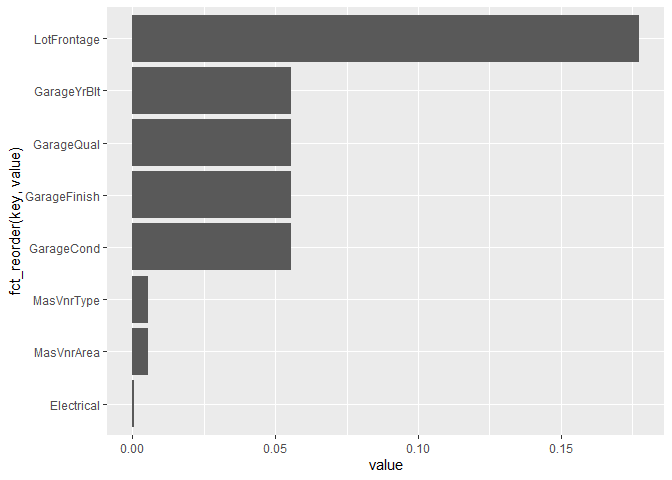
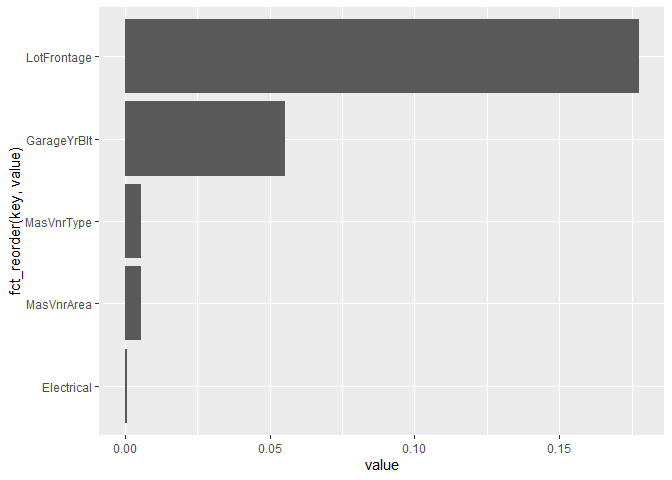
change

diff --git a/data_prep.md b/data_prep.md
@@ -3,8 +3,9 @@ Untitled
 
 ## Missing data
 
-I start by fixing the obvious missing values. There are few problematic
-variables, all related to Garage.
+I start by fixing the obvious missing values. The only problematic
+variable seems to be year built for garage where the garace is missing.
+One way would be to replace NA with year built for the house itselfe.
 
 ``` r
 # Missing data according to data_description.txt file
@@ -14,12 +15,19 @@ training$MiscFeature[is.na(training$MiscFeature)] <- "none"
 training$Alley[is.na(training$Alley)] <- "no_alley"
 training$Fence[is.na(training$Fence)] <- "no_fence"
 training$FireplaceQu[is.na(training$FireplaceQu)] <- "no_fireplace"
-training$GarageType[is.na(training$GarageType)] <- "no_garage"
+
+#  Basement
 training$BsmtFinType2[is.na(training$BsmtFinType2)] <- "no_basement"
 training$BsmtFinType1[is.na(training$BsmtFinType1)] <- "no_basement"
 training$BsmtExposure[is.na(training$BsmtExposure)] <- "no_basement"
 training$BsmtQual[is.na(training$BsmtQual)] <- "no_basement"
 training$BsmtCond[is.na(training$BsmtCond)] <- "no_basement"
+
+# Garage
+training$GarageType[is.na(training$GarageType)] <- "no_garage"
+training$GarageFinish[is.na(training$GarageFinish)] <- "no_garage"
+training$GarageQual[is.na(training$GarageQual)] <- "no_garage"
+training$GarageCond[is.na(training$GarageCond)] <- "no_garage"
 
 
 df_missing <- map_df(training, function(x) mean(is.na(x))) %>%
@@ -60,4 +68,82 @@ gg_miss_upset(training)
 
 ### LotFrontage
 
-LotFrontage referce to *Linear feet of street connected to property*
+LotFrontage referce to *Linear feet of street connected to property*.
+When compared to SalePrice there doesn’t seems to be that much of a
+difference in sale price whether or not the LotFrontage is missing. It
+could be that the actual value is 0 but we dont’ know for sure. So we
+can impute the missing values using KNN or Bagging and compare it to
+imputing the missing values with zero.
+
+#### Numeric variables and missingness of LotFrontage
+
+No clear pattern.
+
+``` r
+df_numeric <- training %>% 
+        select_if(is.numeric) %>% 
+        mutate(LotFrontage_cat = ifelse(is.na(LotFrontage), "missing", "no_missing")) %>% 
+        select(-Id,- LotFrontage) %>% 
+        select(LotFrontage_cat, everything()) %>% 
+        gather("key", "value", 2:37)
+
+ggplot(df_numeric,
+       aes(x = LotFrontage_cat,
+           y = value,
+           col = LotFrontage_cat)) + 
+        geom_violin() +
+        facet_wrap(~key, ncol = 6, scales = "free_y")
+```
+
+    ## Warning: Removed 89 rows containing non-finite values (stat_ydensity).
+
+![](data_prep_files/figure-gfm/unnamed-chunk-3-1.png)<!-- -->
+
+#### Categorical variables and connection to LotFrontage
+
+``` r
+df_categorical <- training %>% 
+        select_if(is.character)
+
+df_lot <- training %>% 
+        select(Id, LotFrontage)
+
+df_categorical <- bind_cols(df_lot, df_categorical) %>% select(-Id)
+
+df_categorical <- df_categorical %>% 
+        gather("key", "value", 2:44) %>% 
+        group_by(key, value) %>% 
+        summarise(missing = mean(is.na(LotFrontage)))
+
+
+ggplot(df_categorical,
+       aes(x = value,
+           y = missing,
+           fill = value)) +
+        geom_bar(stat = "identity") +
+        facet_wrap(~key)
+```
+
+![](data_prep_files/figure-gfm/unnamed-chunk-4-1.png)<!-- -->
+
+``` r
+lot_miss <- training %>% 
+        mutate(LotFrontage_miss = ifelse(is.na(LotFrontage), "missing", "not_missing"))
+
+
+ggplot(lot_miss,
+       aes(x = LotFrontage_miss,
+           y = SalePrice)) + 
+        geom_violin()
+```
+
+![](data_prep_files/figure-gfm/unnamed-chunk-5-1.png)<!-- -->
+
+``` r
+ggplot(lot_miss,
+       aes(x = LotFrontage_miss,
+           y = SalePrice)) + 
+        geom_boxplot()
+```
+
+![](data_prep_files/figure-gfm/unnamed-chunk-5-2.png)<!-- -->
